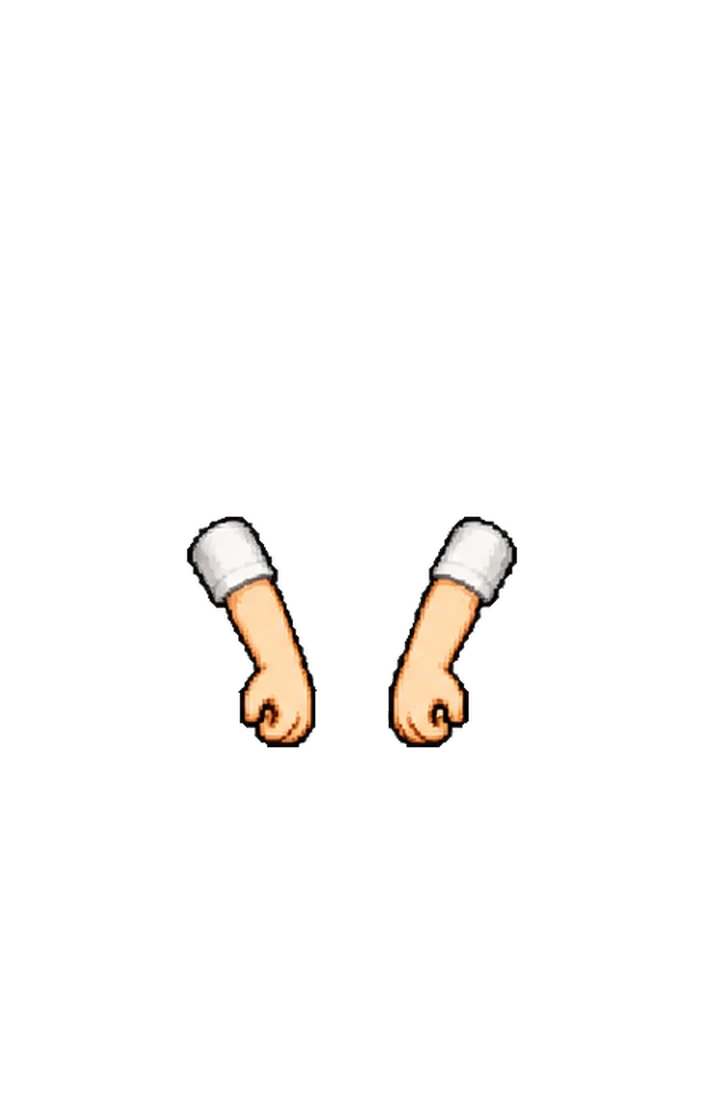
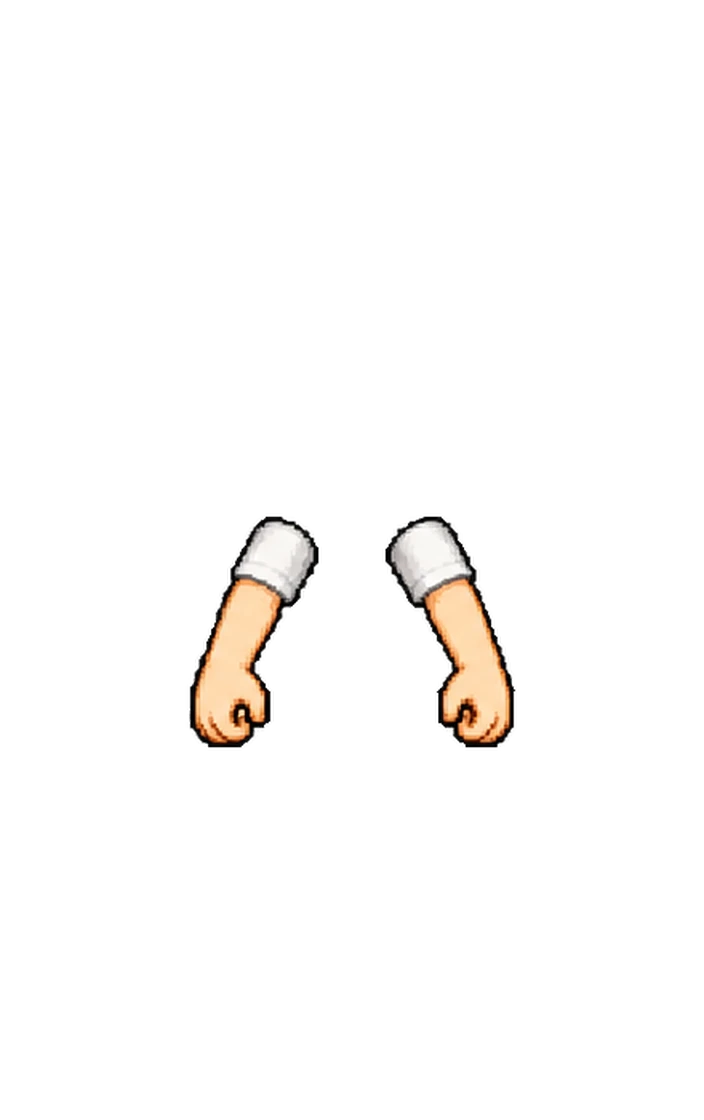
Add files via upload

Changed region(s): [[0.5312, 0.4375, 0.75, 0.6875], [0.25, 0.4375, 0.4688, 0.6875]]

diff --git a/app.js b/app.js
@@ -2,7 +2,7 @@
    Look: shared style files (style.css, flagship.css, buttons.css, btnlook.js). Words follow DESIGN-LANGUAGE.md section 10. */
 (function () {
 'use strict';
-const KEY = 'ht_v1', VERSION = '1.9';
+const KEY = 'ht_v1', VERSION = '2.0';
 const G = window.HTGame;
 const $ = s => document.querySelector(s);
 const $$ = s => Array.from(document.querySelectorAll(s));
@@ -23,7 +23,7 @@ function migrate(o) {
   }
   if (o.sound === undefined) o.sound = true; if (o.vib === undefined) o.vib = true;
   const ids = new Set(G.CATALOG.map(c => c.id));   // 1.4 replaced the old drawn gear with painted outfits: old purchases are refunded
-  o.buys = (o.buys || []).filter(b => ids.has(b.item)); if (o.gear) { o.gear.own = (o.gear.own || []).filter(i => ids.has(i)); o.gear.eq = o.gear.eq || {}; Object.keys(o.gear.eq).forEach(k => { if (k !== 'parts' && !ids.has(o.gear.eq[k])) delete o.gear.eq[k]; }); o.gear.own = o.gear.own.filter(i => i !== 'p23'); o.gear.eq.parts = (o.gear.eq.parts || []).filter(i => ids.has(i) && o.gear.own.indexOf(i) >= 0); if (o.gear.eq.skin === 'p23') delete o.gear.eq.skin; }
+  o.buys = (o.buys || []).filter(b => ids.has(b.item)); if (o.gear) { o.gear.own = (o.gear.own || []).filter(i => ids.has(i)); o.gear.eq = o.gear.eq || {}; Object.keys(o.gear.eq).forEach(k => { if (k !== 'parts' && !ids.has(o.gear.eq[k])) delete o.gear.eq[k]; }); o.gear.own = o.gear.own.filter(i => i !== 'p23'); o.gear.eq.parts = (o.gear.eq.parts || []).filter(i => ids.has(i) && o.gear.own.indexOf(i) >= 0); if (o.gear.eq.skin === 'p23') delete o.gear.eq.skin; const up = o.gear.eq.up || {}; Object.keys(up).forEach(k => { if (o.gear.own.indexOf(up[k]) < 0) delete up[k]; }); o.gear.eq.up = up; }
   const d = defaults(); ['ucats', 'gear', 'buys', 'dismiss'].forEach(k => { if (!o[k]) o[k] = d[k]; }); if (!o.gear.own) o.gear = d.gear;
   return o;
 }
@@ -386,33 +386,39 @@ function todayState() { const o = stats().I[todayK()], net = o ? o.c : 0; return
 
 /* ---------- Armoury ---------- */
 const wornParts = () => S.gear.eq.parts || (S.gear.eq.parts = []);
+const upOf = () => S.gear.eq.up || (S.gear.eq.up = {});
 const setOk = () => G.setDone(S.gear.own, wornParts());
 function buyItem(id) {
   const it = G.CATALOG.find(c => c.id === id), st = stats(); if (!it || has(id)) return;
   if (it.slot === 'skin' && !setOk()) { say('Buy and wear the whole royal outfit first.'); return; }
+  if (it.slot === 'up') { const prev = it.tier === 3 ? G.UPS.find(x => x.base === it.base && x.tier === 2) : null; if (!has(it.base) && !(it.base === 'coat' && has('coat'))) { say('Buy ' + G.PARTS.find(x => x.id === it.base).name + ' first.'); return; } if (prev && !has(prev.id)) { say('Buy ' + prev.name + ' first.'); return; } }
   if (st.lvl < it.level) { say('You need level ' + it.level + ' for this.'); return; }
   if (st.bal < it.price) { say('You need {c} ' + fmt(it.price - st.bal) + ' more.'); return; }
   const b = { id: 'b' + Date.now(), t: Date.now(), item: id, cost: it.price }, had = S.gear.eq.skin;
-  S.buys.push(b); S.gear.own.push(id); if (it.slot === 'skin') S.gear.eq.skin = id; if (it.slot === 'part') wornParts().push(id); save(); tone(740, .3); setTimeout(() => tone(990, .45), 140); vib([20, 40, 20]); render();
+  S.buys.push(b); S.gear.own.push(id); if (it.slot === 'skin') S.gear.eq.skin = id; if (it.slot === 'part') wornParts().push(id); if (it.slot === 'up') upOf()[it.base] = id; save(); tone(740, .3); setTimeout(() => tone(990, .45), 140); vib([20, 40, 20]); render();
   const done = it.slot === 'part' && setOk();
-  say(done ? 'The royal outfit is complete. Premium outfits are open.' : it.name + (it.slot === 'perk' ? ' is yours.' : ' is yours, and you are wearing it.'), () => { S.buys = S.buys.filter(x => x.id !== b.id); S.gear.own = S.gear.own.filter(x => x !== id); S.gear.eq.parts = wornParts().filter(x => x !== id); if (it.slot === 'skin') { if (had) S.gear.eq.skin = had; else delete S.gear.eq.skin; } save(); });
+  say(done ? 'The royal outfit is complete. Premium outfits are open.' : it.name + (it.slot === 'perk' ? ' is yours.' : ' is yours, and you are wearing it.'), () => { S.buys = S.buys.filter(x => x.id !== b.id); S.gear.own = S.gear.own.filter(x => x !== id); S.gear.eq.parts = wornParts().filter(x => x !== id); if (it.slot === 'up') { if (upOf()[it.base] === id) delete upOf()[it.base]; } if (it.slot === 'skin') { if (had) S.gear.eq.skin = had; else delete S.gear.eq.skin; } save(); });
 }
 function equipItem(id) {
   if (id === 'doll') { delete S.gear.eq.skin; save(); tone(620, .2); vib(10); render(); return; }
   const it = G.CATALOG.find(c => c.id === id); if (!it || !has(id) || it.slot !== 'skin') return;
   S.gear.eq.skin = id; save(); tone(620, .2); vib(10); render();
 }
+function toggleUp(id) {
+  const it = G.CATALOG.find(c => c.id === id); if (!it || !has(id)) return; const u = upOf(); if (u[it.base] === id) delete u[it.base]; else u[it.base] = id;
+  save(); tone(560, .15); vib(8); render();
+}
 function togglePart(id) {
   if (!has(id)) return; const w = wornParts(), i = w.indexOf(id); if (i >= 0) w.splice(i, 1); else w.push(id);
   save(); tone(560, .15); vib(8); render();
 }
 function itemCard(it, st) {
-  const own = has(it.id), part = it.slot === 'part', worn = part ? wornParts().indexOf(it.id) >= 0 : S.gear.eq.skin === it.id, locked = st.lvl < it.level, afford = st.bal >= it.price, gated = it.slot === 'skin' && !own && !setOk(); let act;
-  if (own) act = it.slot === 'perk' ? '<span class="g-own">Active</span>' : part ? `<button class="g-btn ${worn ? '' : 'p '}sm" data-tg="${it.id}">${worn ? 'Take off' : 'Wear'}</button>` : worn ? '<span class="g-own">Wearing</span>' : `<button class="g-btn p sm" data-eq="${it.id}">Wear</button>`;
+  const own = has(it.id), part = it.slot === 'part', up = it.slot === 'up', worn = part ? wornParts().indexOf(it.id) >= 0 : up ? upOf()[it.base] === it.id : S.gear.eq.skin === it.id, locked = st.lvl < it.level, afford = st.bal >= it.price, gated = it.slot === 'skin' && !own && !setOk(); let act;
+  if (own) act = it.slot === 'perk' ? '<span class="g-own">Active</span>' : up ? `<button class="g-btn ${worn ? '' : 'p '}sm" data-tu="${it.id}">${worn ? 'Take off' : 'Wear'}</button>` : part ? `<button class="g-btn ${worn ? '' : 'p '}sm" data-tg="${it.id}">${worn ? 'Take off' : 'Wear'}</button>` : worn ? '<span class="g-own">Wearing</span>' : `<button class="g-btn p sm" data-eq="${it.id}">Wear</button>`;
   else if (gated) act = '<span class="g-lock">Finish the royal outfit</span>';
   else if (locked) act = `<span class="g-lock">Level ${it.level}</span>`;
   else act = `<button class="g-btn p sm${afford ? '' : ' off'}" data-buy="${it.id}">Buy · ${coin(14)} ${fmt(it.price)}</button>`;
-  return `<div class="g-item ${it.rar}${own ? ' own' : ''}${locked || gated ? ' locked' : ''}"><div class="g-art">${G.thumb(it, it.art ? 84 : 56)}</div><div class="g-in">${esc(it.name)}</div><div class="g-is">${it.slot === 'perk' ? 'Perk · ' + esc(it.perk) : part ? esc(it.perk) : 'Outfit'}</div>${act}</div>`;
+  return `<div class="g-item ${it.rar}${own ? ' own' : ''}${locked || gated ? ' locked' : ''}"><div class="g-art">${G.thumb(it, it.art ? 84 : 56)}</div><div class="g-in">${esc(it.name)}</div><div class="g-is">${it.slot === 'perk' ? 'Perk · ' + esc(it.perk) : part || up ? esc(it.perk) : 'Outfit'}</div>${act}</div>`;
 }
 function viewArmoury() {
   const st = stats(), eq = S.gear.eq, n = G.PARTS.filter(x => has(x.id)).length, ok = setOk();
@@ -421,6 +427,7 @@ function viewArmoury() {
   out += `<div class="g-gauges">${gauge(rate, 'Resolve', Math.round(rate * 100) + '%', '#4fe0a8')}${gauge(Math.min(1, st.streak / 30), 'Streak', st.streak + 'd', '#ffb35a')}${gauge(st.prog, 'Climb', Math.round(Math.max(0, Math.min(1, st.prog)) * 100) + '%', '#5ad7ff')}</div>`;
   const by = sl => G.CATALOG.filter(c => c.slot === sl).sort((a, b) => a.level - b.level);
   out += `<div class="g-cap" style="margin:16px 4px 6px">Royal outfit</div><div class="g-setbar"><i style="width:${n * 10}%"></i><span>${ok ? 'Complete. Premium outfits are open.' : n + ' of ' + G.PARTS.length + ' parts. Buy and wear all of them to open premium outfits.'}</span></div><div class="g-shop">${by('part').map(it => itemCard(it, st)).join('')}</div>`;
+  out += `<div class="g-cap" style="margin:16px 4px 6px">Upgrades</div><div class="g-hint">Tier II and III. Each swaps one royal part for a finer one.</div><div class="g-shop">${G.UPS.map(it => itemCard(it, st)).join('')}</div>`;
   out += `<div class="g-cap" style="margin:16px 4px 8px">Premium outfits</div><div class="g-shop">${eq.skin ? `<div class="g-item own"><div class="g-art">${G.look({ parts: eq.parts }, 84)}</div><div class="g-in">${ok ? 'Golden Prince' : 'Your royal outfit'}</div><div class="g-is">Made from the parts you bought</div><button class="g-btn p sm" data-eq="doll">Wear</button></div>` : ''}${by('skin').map(it => itemCard(it, st)).join('')}</div>`;
   out += `<div class="g-cap" style="margin:16px 4px 8px">Perks</div><div class="g-shop" id="perks">${by('perk').map(it => itemCard(it, st)).join('')}</div>`;
   return out;
@@ -561,7 +568,7 @@ document.addEventListener('click', e => {
   if (t.id === 'gsb' || c('#gsx')) return closeGS(); if (c('#ent')) return entriesSheet();
   if ((b = c('.nav-item'))) { tone(screen === b.dataset.s ? 400 : 520, .12, .05); vib(8); closeGS(); if (b.dataset.s === 'set' && screen === 'set') setPage = 'top'; screen = b.dataset.s; render(); window.scrollTo(0, 0); return; }
   if ((b = c('[data-to]'))) { screen = b.dataset.to; render(); window.scrollTo(0, 0); return; }
-  if ((b = c('[data-buy]'))) return buyItem(b.dataset.buy); if ((b = c('[data-eq]'))) return equipItem(b.dataset.eq); if ((b = c('[data-tg]'))) return togglePart(b.dataset.tg);
+  if ((b = c('[data-buy]'))) return buyItem(b.dataset.buy); if ((b = c('[data-eq]'))) return equipItem(b.dataset.eq); if ((b = c('[data-tg]'))) return togglePart(b.dataset.tg); if ((b = c('[data-tu]'))) return toggleUp(b.dataset.tu);
   if ((b = c('[data-uc]'))) { ucSel = b.dataset.uc; return render(); }
   if ((b = c('[data-cw]'))) { const cc = S.ucats.find(x => x.id === b.dataset.cw); cc.w = Math.max(0.5, Math.min(3, cc.w + 0.5 * +b.dataset.d)); save(); return render(); }
   if ((b = c('[data-cdel]'))) { S.ucats = S.ucats.filter(x => x.id !== b.dataset.cdel); if (ucSel === b.dataset.cdel) ucSel = null; save(); return render(); }

diff --git a/game.js b/game.js
@@ -42,22 +42,23 @@ const PARTS = [   // [id, name, layers, level, price, crop box on the 440x700 ca
   ['sword', 'Sword and Scabbard', ['sword', 'scabbard'], 16, 6000, [230, 140, 350, 620], 'A blade for the brave'],
   ['cloak', 'Royal Cloak', ['cloak'], 20, 8000, [23, 258, 417, 530], 'A cloak that crowns the set']
 ].map(p => ({ id: p[0], name: p[1], slot: 'part', layers: p[2], level: p[3], price: p[4], crop: p[5], rar: p[3] >= 16 ? 'rare' : '', perk: p[6] }));
-const DOLL = ['cloak', 'sword', 'legs', 'shorts', 'trousers', 'boots', 'knee', 'arms', 'shirt', 'jacket', 'gloves', 'belt', 'straps', 'brooch', 'scabbard', 'collar', 'paul', 'head'];
-const DOLL_OF = {}; PARTS.forEach(p => p.layers.forEach(l => { DOLL_OF[l] = p.id; }));
-function dollLayers(worn) {   // which layers to draw for the parts being worn
-  const w = new Set(worn || []), hide = new Set();
-  if (w.has('coat')) { hide.add('shirt'); hide.add('arms'); } if (w.has('trousers')) hide.add('shorts'); if (w.has('boots')) hide.add('legs');
-  return DOLL.filter(l => !hide.has(l) && (!DOLL_OF[l] || w.has(DOLL_OF[l])));
+const UPS = [['sword2', 'sword', 'Jewelled Sword', ['sword2', 'scabbard'], 30, 12000, [264, 155, 418, 596], 'A blade with a blue jewel'], ['sword3', 'sword', 'Radiant Sword', ['sword3', 'scabbard'], 60, 30000, [263, 151, 443, 596], 'A glowing blade of light'], ['cloak2', 'cloak', 'Tasselled Cloak', ['cloak2'], 28, 10000, [43, 253, 396, 607], 'Gold tassels and a jewelled clasp'], ['cloak3', 'cloak', 'Crowned Fur Cloak', ['cloak3'], 55, 28000, [33, 236, 407, 654], 'A fur collar fit for a king'], ['paul2', 'paul', 'Tasselled Pauldrons', ['paul2'], 26, 8000, [107, 258, 332, 370], 'Shoulder guards with gold tassels'], ['paul3', 'paul', 'Fur Pauldrons', ['paul3'], 50, 22000, [97, 256, 342, 374], 'Fur-lined shoulder guards'], ['belt2', 'belt', 'Fleur Belt', ['belt2'], 24, 6000, [121, 398, 318, 466], 'A gold and white belt'], ['belt3', 'belt', 'Jewelled Sash', ['belt3'], 45, 18000, [107, 382, 334, 489], 'A belt with a sash and jewel'], ['boots2', 'boots', 'Gilded Boots', ['boots2'], 22, 7000, [109, 518, 300, 691], 'Boots with a white and gold cuff'], ['boots3', 'boots', 'Plated Boots', ['boots3'], 40, 16000, [115, 514, 305, 691], 'Boots with armoured plates'], ['gloves2', 'coat', 'Gold Gauntlets', ['jacket', 'gloves2'], 34, 14000, [103, 402, 332, 510], 'Armoured gauntlets'], ['knee2', 'knee', 'Fleur Greaves', ['knee2'], 32, 12000, [137, 528, 284, 625], 'Plated greaves']].map((u, i) => ({ id: u[0], base: u[1], name: u[2], slot: 'up', layers: u[3], level: u[4], price: u[5], crop: u[6], perk: u[7], tier: (i % 2) + 2, rar: u[4] >= 40 ? 'epic' : 'rare' }));
+const DOLL = ['cloak', 'cloak2', 'cloak3', 'sword', 'sword2', 'sword3', 'legs', 'shorts', 'trousers', 'boots', 'boots2', 'boots3', 'knee', 'knee2', 'arms', 'shirt', 'jacket', 'gloves', 'gloves2', 'belt', 'belt2', 'belt3', 'straps', 'brooch', 'scabbard', 'collar', 'paul', 'paul2', 'paul3', 'head'];
+function dollLayers(worn, up) {   // which layers to draw for the parts being worn (an upgrade swaps the layers of its base part)
+  const w = new Set(worn || []), on = new Set(['legs', 'shorts', 'arms', 'shirt', 'head']); up = up || {};
+  if (w.has('coat')) { on.delete('shirt'); on.delete('arms'); } if (w.has('trousers')) on.delete('shorts'); if (w.has('boots')) on.delete('legs');
+  PARTS.forEach(p => { if (!w.has(p.id)) return; const u = UPS.find(x => x.id === up[p.id]); (u ? u.layers : p.layers).forEach(l => on.add(l)); });
+  return DOLL.filter(l => on.has(l));
 }
 const layerImg = l => `<img src="art/doll/${l}.webp" alt="" draggable="false">`;
-const doll = worn => `<span class="doll">${dollLayers(worn).map(layerImg).join('')}</span>`;
-const partThumb = (it, sz) => { const c = it.crop, w = c[2] - c[0], h = c[3] - c[1], s = Math.min(sz / w, sz / h); return `<span class="pthumb" style="width:${sz}px;height:${sz}px"><span style="position:absolute;width:${(440 * s).toFixed(1)}px;height:${(700 * s).toFixed(1)}px;left:${((sz - w * s) / 2 - c[0] * s).toFixed(1)}px;top:${((sz - h * s) / 2 - c[1] * s).toFixed(1)}px">${it.layers.map(layerImg).join('')}</span></span>`; };
+const doll = (worn, up) => `<span class="doll">${dollLayers(worn, up).map(layerImg).join('')}</span>`;
+const partThumb = (it, sz) => { const c = it.crop, w = c[2] - c[0], h = c[3] - c[1], s = Math.min(sz / w, sz / h); return `<span class="pthumb" style="width:${sz}px;height:${sz}px"><span style="position:absolute;width:${(440 * s).toFixed(1)}px;height:${(700 * s).toFixed(1)}px;left:${((sz - w * s) / 2 - c[0] * s).toFixed(1)}px;top:${((sz - h * s) / 2 - c[1] * s).toFixed(1)}px">${it.layers.filter(l => it.slot !== 'up' || l !== 'jacket').map(layerImg).join('')}</span></span>`; };
 const setDone = (own, worn) => PARTS.every(p => own.indexOf(p.id) >= 0 && (worn || []).indexOf(p.id) >= 0);
 const CATALOG = [
   { id: 'potion', name: 'Calm Potion', slot: 'perk', sp: 'potion', price: 1200, level: 3, rar: '', perk: 'Urge Rescue pays 100 extra.' },
   { id: 'weights', name: 'Strong Body', slot: 'perk', sp: 'weights', price: 3600, level: 12, rar: '', perk: 'Ducked pays 100 more in hard times.' },
   { id: 'heart', name: 'Heart Vigour', slot: 'perk', sp: 'heart', price: 8000, level: 25, rar: 'epic', perk: 'Every Yielded costs 100 less (never below 100).' },
-].concat(PARTS).concat(OUTFITS.map(o => ({ id: 'p' + String(o[0]).padStart(2, '0'), name: o[1], slot: 'skin', art: o[0], price: o[3], level: o[2], rar: o[4] })));
+].concat(PARTS).concat(UPS).concat(OUTFITS.map(o => ({ id: 'p' + String(o[0]).padStart(2, '0'), name: o[1], slot: 'skin', art: o[0], price: o[3], level: o[2], rar: o[4] })));
 const SLOTS = { skin: 'Outfit', part: 'Royal part', head: 'Head', rhand: 'Right hand', lhand: 'Left hand', body: 'Body', cloak: 'Cloak', feet: 'Feet', neck: 'Neck', aura: 'Halo', perk: 'Perk' };
 
 /* ---- pixel helpers ---- */
@@ -143,9 +144,9 @@ function heroOld(level, eq, size) {
 /* ---- the prince: painted pixel art, one image per outfit (art/prince-NN.webp) ---- */
 const artOf = id => { const it = CATALOG.find(c => c.id === id); return it ? it.art : 23; };
 const prince = id => `<img class="pr" src="art/prince-${String(artOf(id)).padStart(2, '0')}.webp" alt="" draggable="false">`;
-function hero(level, eq) { return eq && eq.skin ? prince(eq.skin) : doll(eq && eq.parts); }
+function hero(level, eq) { return eq && eq.skin ? prince(eq.skin) : doll(eq && eq.parts, eq && eq.up); }
 const look = (eq, sz) => `<span class="bust" style="width:${sz}px;height:${sz}px">${hero(0, eq)}</span>`;
-const thumb = (it, sz) => it.layers ? partThumb(it, sz) : it.art ? `<span class="bust" style="width:${sz}px;height:${sz}px">${prince(it.id)}</span>` : sprite(it.sp, sz);
+const thumb = (it, sz) => it.crop ? partThumb(it, sz) : it.art ? `<span class="bust" style="width:${sz}px;height:${sz}px">${prince(it.id)}</span>` : sprite(it.sp, sz);
 
 /* ---- the Nemesis: the green one-eyed monster, a sprite atlas (art/mon-green.webp, 5 x 4 cells) ----
    frames: 0 normal 1 calm 2 angry 3 sneering 4 astonished 5 happy 6 sad 7-10 idle 11-13 hurt 14 dizzy 15-17 down 18 ghost */
@@ -190,5 +191,5 @@ function scene() {
 }
 
 const coin = sz => `<svg class="coin" width="${sz}" height="${sz}" viewBox="0 0 20 20" aria-hidden="true"><circle cx="10" cy="10" r="9" fill="#ffcf40" stroke="#8a5208" stroke-width="1.5"/><circle cx="10" cy="10" r="6.4" fill="none" stroke="#fff0a8" stroke-width="1.2"/><path d="M10 6l3.4 4L10 14 6.6 10z" fill="#c98a12" stroke="#8a5208" stroke-width=".8" stroke-linejoin="round"/><path d="M4.6 7.4A6.2 6.2 0 0 1 8 4.2" stroke="#fff" stroke-width="1.2" fill="none" stroke-linecap="round" opacity=".8"/></svg>`;
-root.HTGame = { coin, PAL, SP, CATALOG, SLOTS, sprite, hero, prince, thumb, look, doll, PARTS, setDone, nemesis, gem, scene, bodyLook };
+root.HTGame = { coin, PAL, SP, CATALOG, SLOTS, sprite, hero, prince, thumb, look, doll, PARTS, UPS, setDone, nemesis, gem, scene, bodyLook };
 })(window);

diff --git a/sw.js b/sw.js
@@ -1,6 +1,6 @@
 // Rustam's Habit Tracker: offline service worker. Bump CACHE_VERSION whenever you replace any file.
-const CACHE_VERSION = 'rustams-habit-tracker-v1-9';
-const ASSETS = ['./', './index.html', './style.css', './flagship.css', './buttons.css', './habit.css', './btnlook.js', './app.js', './game.js', './art/mon-green.webp', './art/doll/arms.webp', './art/doll/belt.webp', './art/doll/boots.webp', './art/doll/brooch.webp', './art/doll/cloak.webp', './art/doll/collar.webp', './art/doll/gloves.webp', './art/doll/head.webp', './art/doll/jacket.webp', './art/doll/knee.webp', './art/doll/legs.webp', './art/doll/paul.webp', './art/doll/scabbard.webp', './art/doll/shirt.webp', './art/doll/shorts.webp', './art/doll/straps.webp', './art/doll/sword.webp', './art/doll/trousers.webp','./art/scene-day.webp', './art/scene-sunset.webp', './art/scene-night.webp', './art/scene-storm.webp', './art/scene-blood.webp', './art/prince-01.webp', './art/prince-02.webp', './art/prince-03.webp', './art/prince-04.webp', './art/prince-05.webp', './art/prince-06.webp', './art/prince-07.webp', './art/prince-08.webp', './art/prince-09.webp', './art/prince-10.webp', './art/prince-11.webp', './art/prince-12.webp', './art/prince-13.webp', './art/prince-14.webp', './art/prince-15.webp', './art/prince-16.webp', './art/prince-17.webp', './art/prince-18.webp', './art/prince-19.webp', './art/prince-20.webp', './art/prince-21.webp', './art/prince-22.webp', './art/prince-23.webp', './art/prince-24.webp', './art/prince-25.webp', './manifest.webmanifest', './icon-192.png', './icon-512.png', './icon-maskable-512.png', './fonts/inter-latin-200-normal.woff2', './fonts/inter-latin-300-normal.woff2', './fonts/inter-latin-400-normal.woff2', './fonts/manrope-latin-200-normal.woff2', './fonts/manrope-latin-300-normal.woff2', './fonts/manrope-latin-400-normal.woff2'];
+const CACHE_VERSION = 'rustams-habit-tracker-v2-0';
+const ASSETS = ['./', './index.html', './style.css', './flagship.css', './buttons.css', './habit.css', './btnlook.js', './app.js', './game.js', './art/mon-green.webp', './art/doll/arms.webp', './art/doll/belt.webp', './art/doll/belt2.webp', './art/doll/belt3.webp', './art/doll/boots.webp', './art/doll/boots2.webp', './art/doll/boots3.webp', './art/doll/brooch.webp', './art/doll/cloak.webp', './art/doll/cloak2.webp', './art/doll/cloak3.webp', './art/doll/collar.webp', './art/doll/gloves.webp', './art/doll/gloves2.webp', './art/doll/head.webp', './art/doll/jacket.webp', './art/doll/knee.webp', './art/doll/knee2.webp', './art/doll/legs.webp', './art/doll/paul.webp', './art/doll/paul2.webp', './art/doll/paul3.webp', './art/doll/scabbard.webp', './art/doll/shirt.webp', './art/doll/shorts.webp', './art/doll/straps.webp', './art/doll/sword.webp', './art/doll/sword2.webp', './art/doll/sword3.webp', './art/doll/trousers.webp', './art/scene-day.webp', './art/scene-sunset.webp', './art/scene-night.webp', './art/scene-storm.webp', './art/scene-blood.webp', './art/prince-01.webp', './art/prince-02.webp', './art/prince-03.webp', './art/prince-04.webp', './art/prince-05.webp', './art/prince-06.webp', './art/prince-07.webp', './art/prince-08.webp', './art/prince-09.webp', './art/prince-10.webp', './art/prince-11.webp', './art/prince-12.webp', './art/prince-13.webp', './art/prince-14.webp', './art/prince-15.webp', './art/prince-16.webp', './art/prince-17.webp', './art/prince-18.webp', './art/prince-19.webp', './art/prince-20.webp', './art/prince-21.webp', './art/prince-22.webp', './art/prince-23.webp', './art/prince-24.webp', './art/prince-25.webp', './manifest.webmanifest', './icon-192.png', './icon-512.png', './icon-maskable-512.png', './fonts/inter-latin-200-normal.woff2', './fonts/inter-latin-300-normal.woff2', './fonts/inter-latin-400-normal.woff2', './fonts/manrope-latin-200-normal.woff2', './fonts/manrope-latin-300-normal.woff2', './fonts/manrope-latin-400-normal.woff2'];
 self.addEventListener('install', e => { e.waitUntil(caches.open(CACHE_VERSION).then(c => c.addAll(ASSETS)).then(() => self.skipWaiting())); });
 self.addEventListener('activate', e => { e.waitUntil(caches.keys().then(ks => Promise.all(ks.filter(k => k !== CACHE_VERSION).map(k => caches.delete(k)))).then(() => self.clients.claim())); });
 self.addEventListener('fetch', e => {

diff --git a/habit.css b/habit.css
@@ -432,3 +432,11 @@ img.px { image-rendering: pixelated; display: block; }
 .g-setbar i { position: absolute; left: 0; top: 0; bottom: 0; background: linear-gradient(90deg, #ffb02a, #ffe27a); transition: width .6s; }
 .g-setbar span { position: relative; display: block; text-align: center; font-size: .72rem; line-height: 22px; font-weight: 600; color: #fff; text-shadow: 0 0 3px #000, 0 1px 3px #000, 0 0 6px #000; padding: 0 8px; white-space: nowrap; overflow: hidden; text-overflow: ellipsis; }
 .g-art .pthumb, .g-art .bust { margin: 0 auto; }
+
+/* v2.0: angry = quicker breathing, no shaking */
+@keyframes breathefast { 0%, 100% { transform: scale(1); } 50% { transform: scale(1.05); } }
+.g-arena.hard .g-cre .mon { animation: breathefast 1.5s ease-in-out infinite; }
+.g-arena.hard.fx-d .g-cre .mon { animation: flinch .6s ease-out; }
+.g-arena.hard.fx-y .g-cre .mon { animation: grin .7s ease-out; }
+.g-hint { margin: 0 4px 10px; font-size: .74rem; color: rgba(255, 255, 255, .72); text-shadow: 0 1px 3px #000; }
+.g-btn.sm:not(.p) { color: #1d1a33; text-shadow: none; font-weight: 700; }

diff --git a/index.html b/index.html
@@ -35,7 +35,7 @@
 
 <header class="app-header">
   <svg width="40" height="40" viewBox="0 0 48 48" aria-hidden="true"><defs><linearGradient id="logoH" x1="0" y1="0" x2="1" y2="1"><stop offset="0" style="stop-color:var(--blue-a)"/><stop offset="1" style="stop-color:var(--blue-b)"/></linearGradient></defs><rect width="48" height="48" rx="13" fill="url(#logoH)"/><g fill="none" stroke-width="5" transform="rotate(-90 24 24)"><circle cx="24" cy="24" r="12" stroke="#fff"/><circle cx="24" cy="24" r="12" stroke="#f6dc9b" stroke-dasharray="16 81.7" stroke-linecap="round"/></g></svg>
-  <div style="flex:1;min-width:0"><div class="brand"><span>Rustam's</span> Habit Tracker</div><div class="ver-line" id="app-ver">Version 1.9</div></div>
+  <div style="flex:1;min-width:0"><div class="brand"><span>Rustam's</span> Habit Tracker</div><div class="ver-line" id="app-ver">Version 2.0</div></div>
   <button id="orb" class="cc orb" aria-label="Companion. Tap for a tip." title="Tap for a tip"><i></i></button>
 </header>
 <div id="banner"></div>
